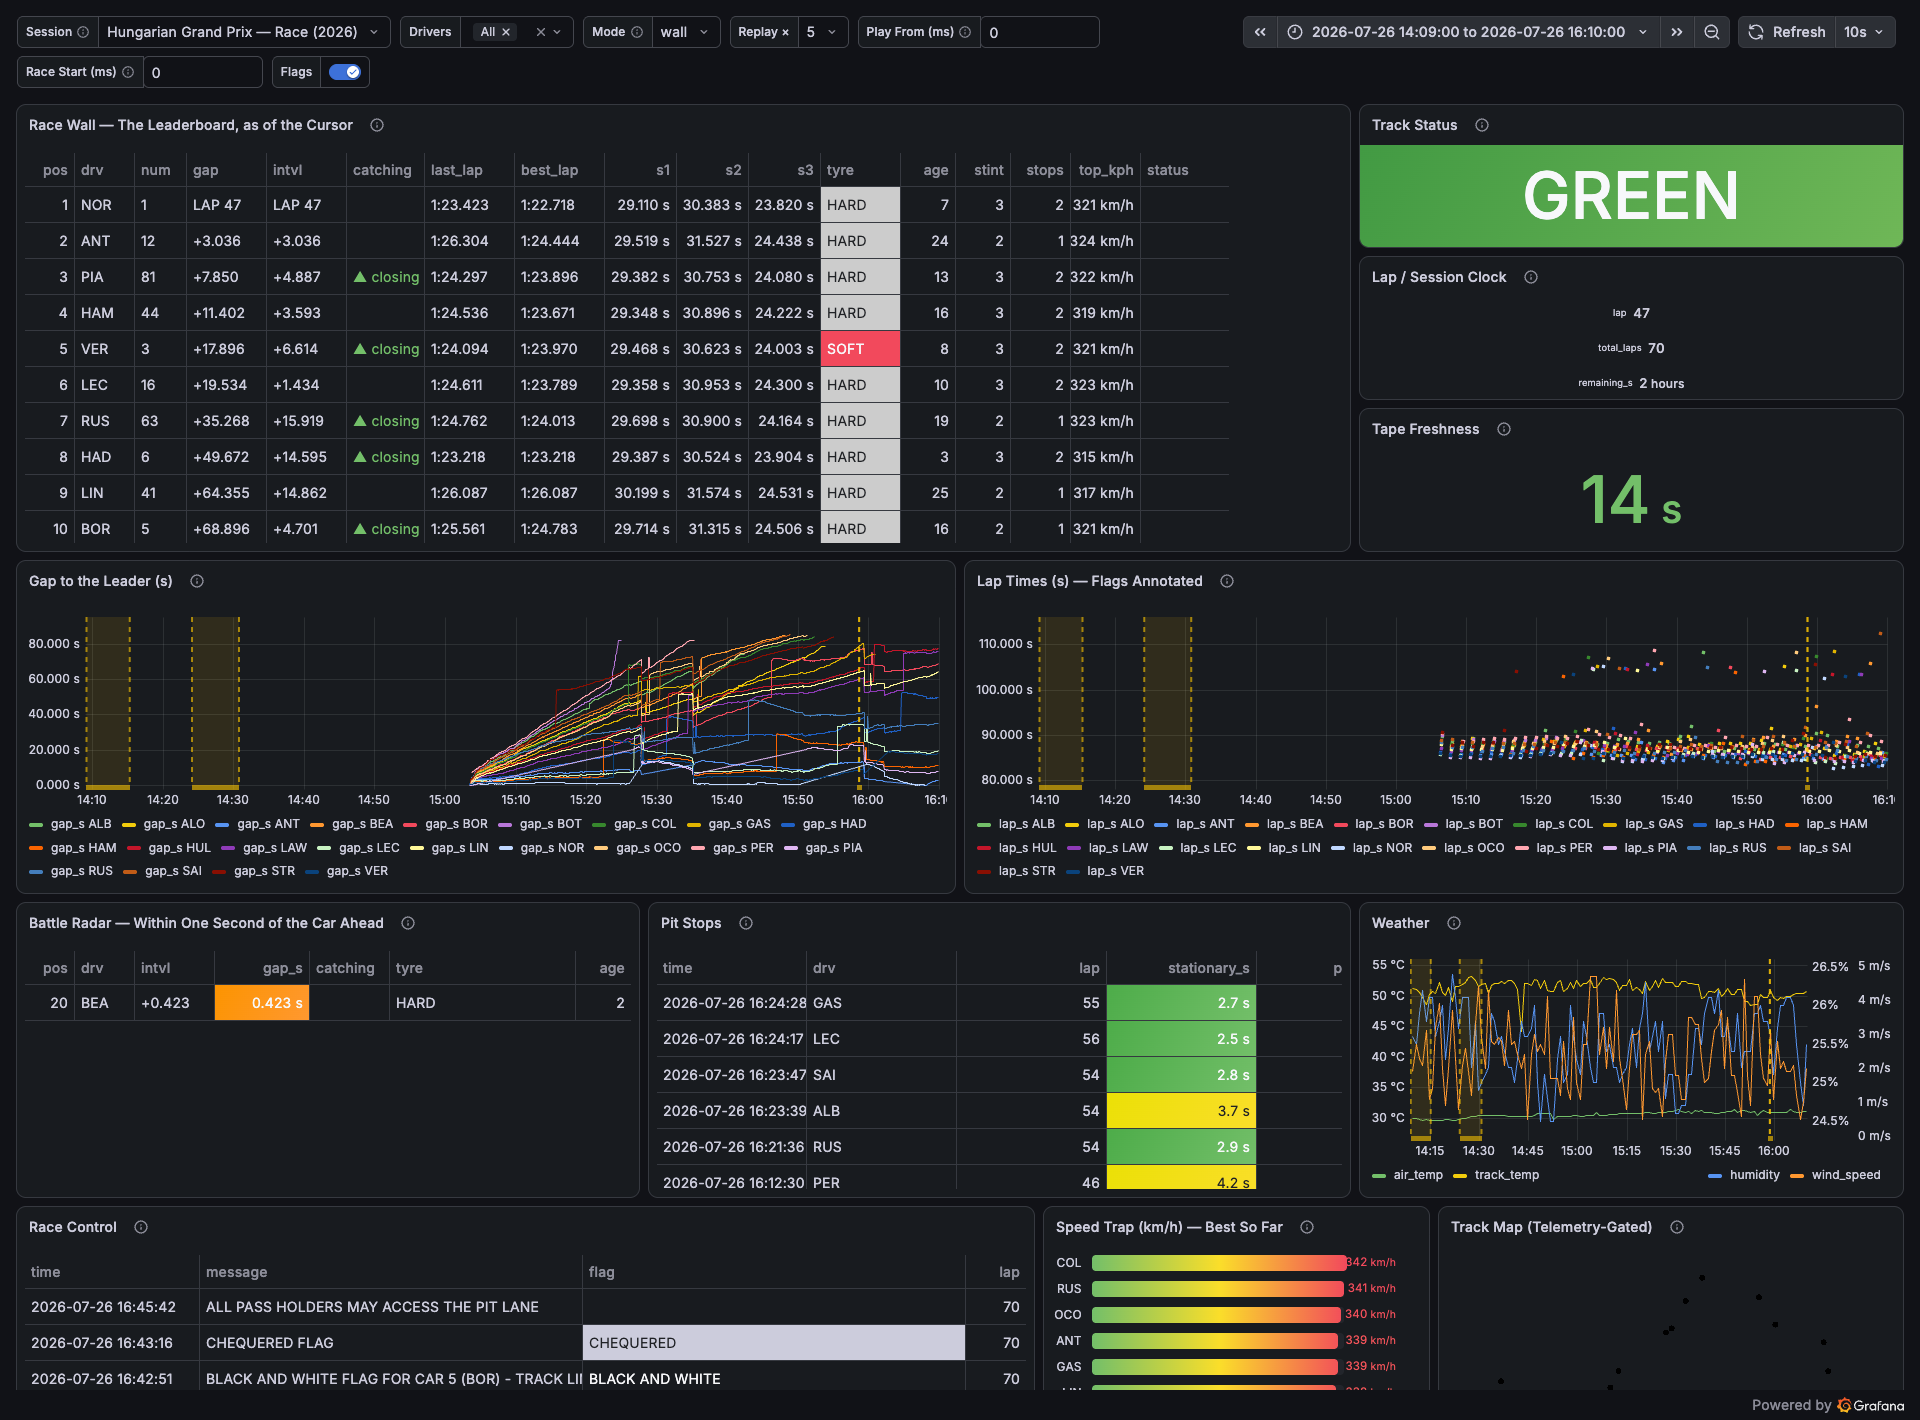
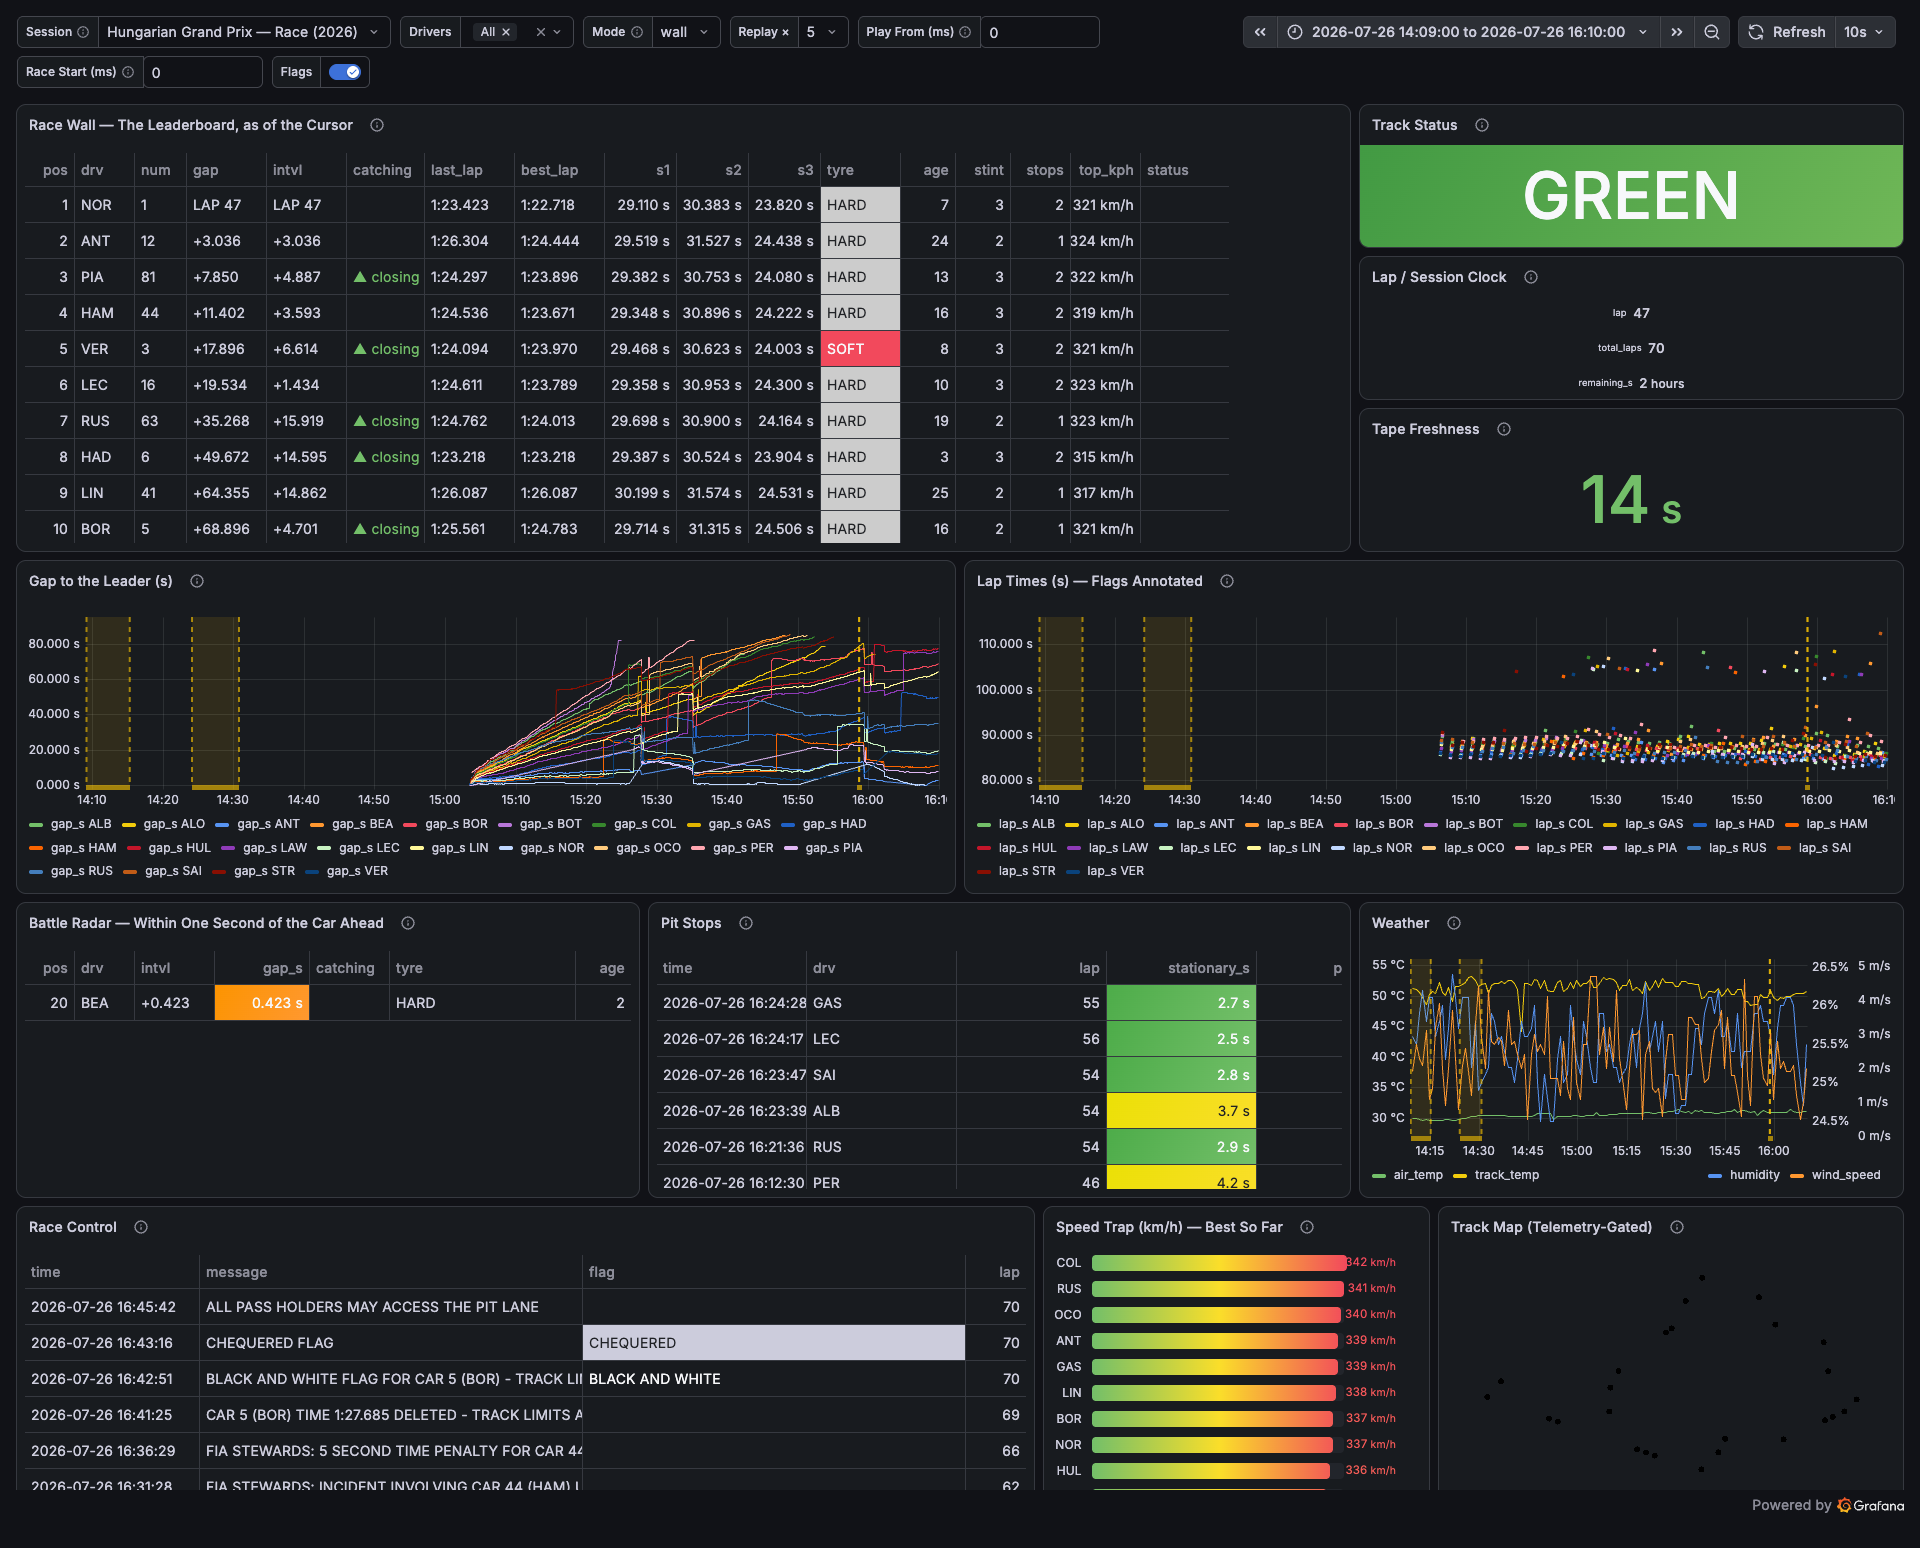
Picture all three F1 dashboards, not just the race wall
The example shipped three dashboards and documented one picture, in the
root gallery only — examples/f1_live_timing/README.md was the one example
README with no screenshot of its own, so the strategy and season views
existed as prose and nowhere else.

All three captured against the shared stack over the full 2026 season
backfill (30 sessions, 443k standings rows), Chrome at 1920 px in Grafana
kiosk mode, each viewport trimmed to its dashboard's own content height
so no panel row is cut and no dead band is padded:

- f1-grafana.png — the wall, Hungarian GP Race, absolute range ending
  2026-07-26 14:10Z: the cursor lands on lap 47 of 70 under GREEN with
  14 s of tape freshness. Same framing as the shot it replaces, which was
  1420 px tall and clipped the bottom row (race control, speed traps,
  track map) mid-panel.
- f1-strategy-grafana.png — the same session read as strategy, time range
  spanning the whole race so the stint timeline is framed by it.
- f1-season-grafana.png — 2026-02-01 to now, entity=driver: 11 race
  weekends, every session complete, ANT leading on 204.

The wall shot now also opens the example README, matching every other
example; the strategy and season shots sit under the "Three dashboards"
list in "Grafana — the one mechanism", each captioned with what its
panels are actually showing in that frame. The root gallery keeps one
tile per example — three F1 tiles would swamp eight examples.
[…]

diff --git a/examples/f1_live_timing/README.md b/examples/f1_live_timing/README.md
@@ -10,6 +10,11 @@ dashboard either way.*
 It is the repo's answer to a question the others don't ask: *what does a stream look like when
 the source is a file that is still being written?*
 
+<p align="center">
+  <img src="../../assets/f1-grafana.png" width="100%" alt="The F1 Live Timing Grafana dashboard — the race wall: the leaderboard as of an as-of cursor with gaps, intervals, sector times, tyres and pit counts, the track-status banner, the lap counter, tape freshness, gap-to-leader and lap-time series with flag annotations, the battle radar, pit stops, race control, weather, speed traps and a track map">
+</p>
+<p align="center"><em>The race wall, scrubbed to lap 47 of 70 of the 2026 Hungarian Grand Prix — an <a href="#grafana--the-one-mechanism">as-of cursor</a> parked mid-race in a session that was long over before its tape was read. Nothing was re-timestamped to make this picture: the range end is the cursor and nothing else moves, so dragging it forward re-forms the wall at the next instant — and a now-relative range would show a live session in these same panels.</em></p>
+
 ```mermaid
 flowchart LR
     IDX{{"livetiming.formula1.com<br/>/static/&lt;year&gt;/Index.json"}}:::ext --> RQ["request.py<br/>season | follow | session"]:::process
@@ -268,12 +273,22 @@ Three dashboards:
 
 - **Flechtwerk — F1 Live Timing** (`flechtwerk-f1`) — the race wall: leaderboard, flag banner,
   lap counter, tape freshness, gaps, lap times with flag annotations, battle radar, pit stops,
-  race control, weather, speed traps, and a track map.
+  race control, weather, speed traps, and a track map. Pictured [at the top](#f1-live-timing--a-season-on-tape).
 - **Flechtwerk — F1 Strategy** (`flechtwerk-f1-strategy`) — stint timeline, degradation curve by
   compound over clean laps, position by lap, rolling pace, pit-loss ledger. Lap-indexed, so it
   ignores the time range (except the stint timeline, which says so).
 - **Flechtwerk — F1 Season** (`flechtwerk-f1-season`) — the entry point: every session on tape,
   with the three data links, plus championship progression, podiums, and season tallies.
+
+<p align="center">
+  <img src="../../assets/f1-strategy-grafana.png" width="100%" alt="The F1 Strategy Grafana dashboard — a per-driver stint timeline coloured by compound with pit markers and flag annotations, a degradation curve of median clean lap time against tyre age split by compound, position by lap for all twenty cars, rolling five-lap pace, and a pit-loss ledger of stops with average stationary and pit-lane times">
+</p>
+<p align="center"><em>The same Hungarian Grand Prix, read as strategy: one row per driver on the stint timeline (yellow MEDIUM → grey HARD → red SOFT, the black gaps the stops, the dashed lines the flags), the degradation curve separating the compounds by how fast they fell away with tyre age, and the pit-loss ledger totalling what each strategy cost in the lane. This dashboard is <strong>lap-indexed</strong> — the time range only frames the stint timeline; the other four panels come out the same whatever you pick.</em></p>
+
+<p align="center">
+  <img src="../../assets/f1-season-grafana.png" width="100%" alt="The F1 Season Grafana dashboard — a table of every session on tape with its completion status and circuit, championship points across the season per driver, the podium of every race, season tallies of wins and podiums and points finishes, and a per-session row count of what each tape produced">
+</p>
+<p align="center"><em>Eleven race weekends of the 2026 season on one page, every session marked <code>complete</code> — this is what a whole-season backfill looks like once the tape has been read. The championship curve is not a scoreboard scraped from anywhere: it is <code>f1_championship</code>, folded out of the tape's own <code>ChampionshipPrediction</code> feed one race at a time. Each session label carries the three data links — open the wall at that session, replay it, or read it as strategy.</em></p>
 
 Two Grafana facts worth knowing if you edit these: a stat panel over a **string** field needs
 `reduceOptions.fields = "/.*/"` (the default means "numeric only", and the panel reads *No data*),
